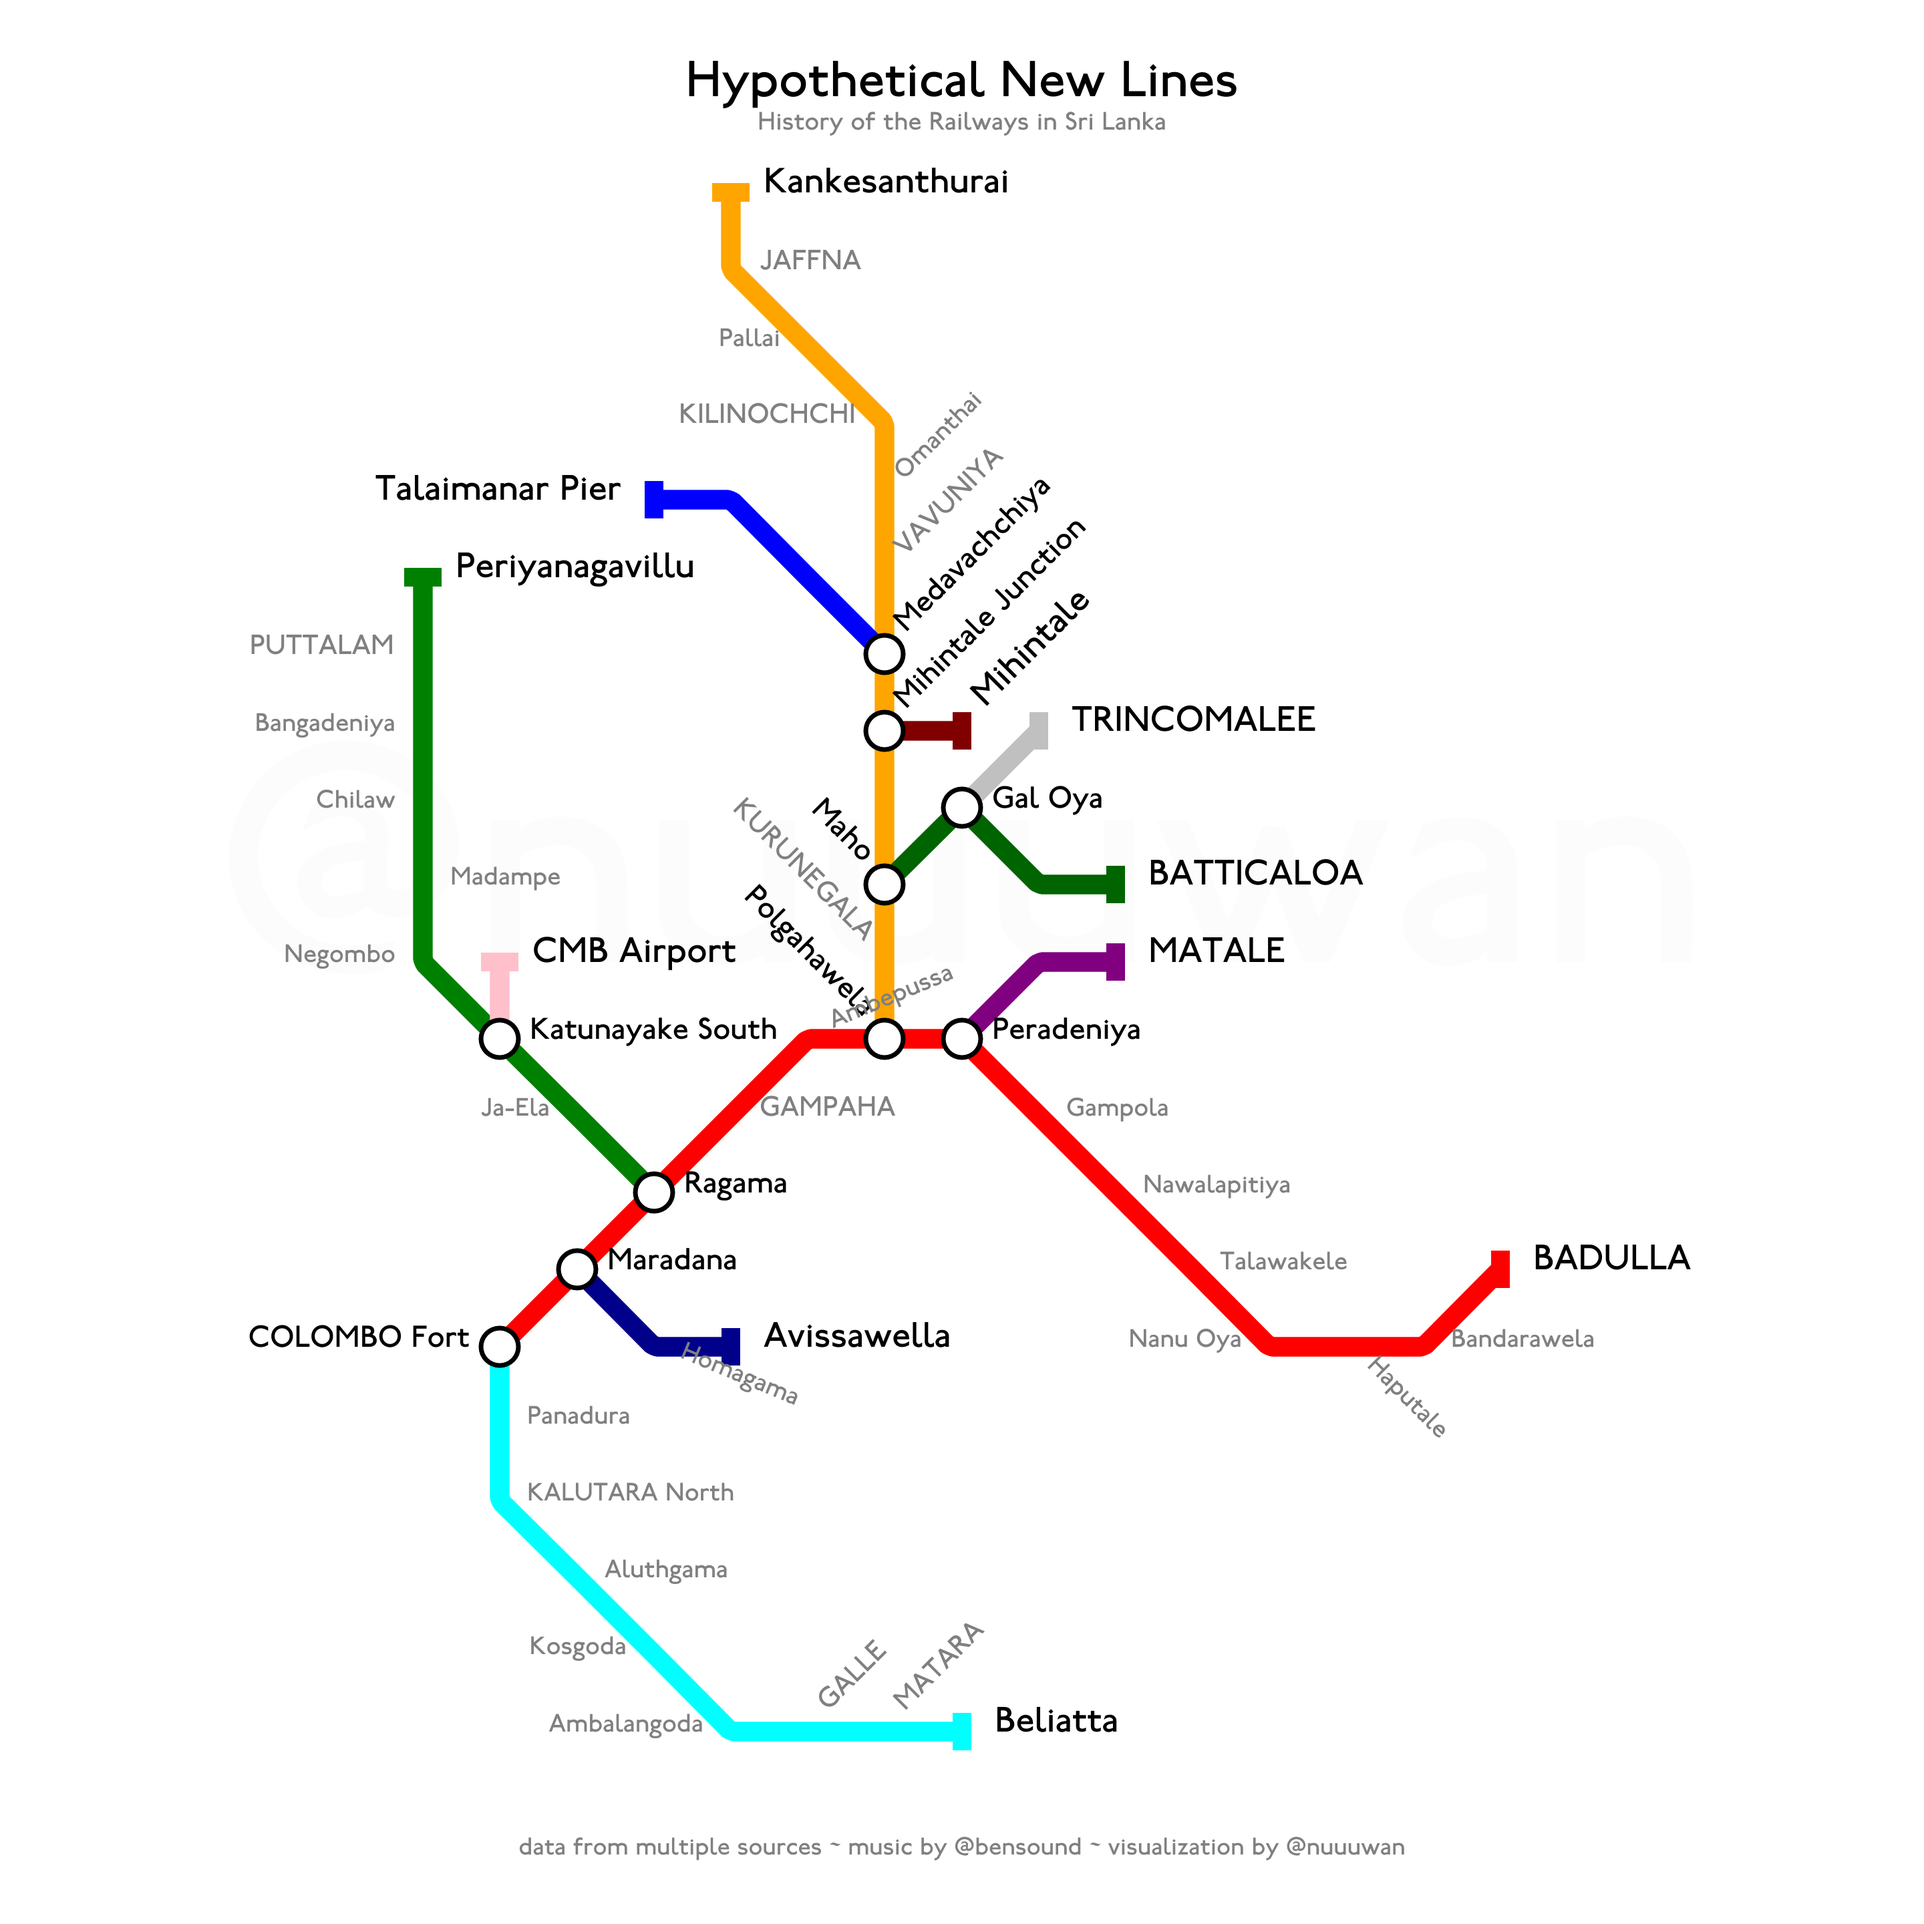
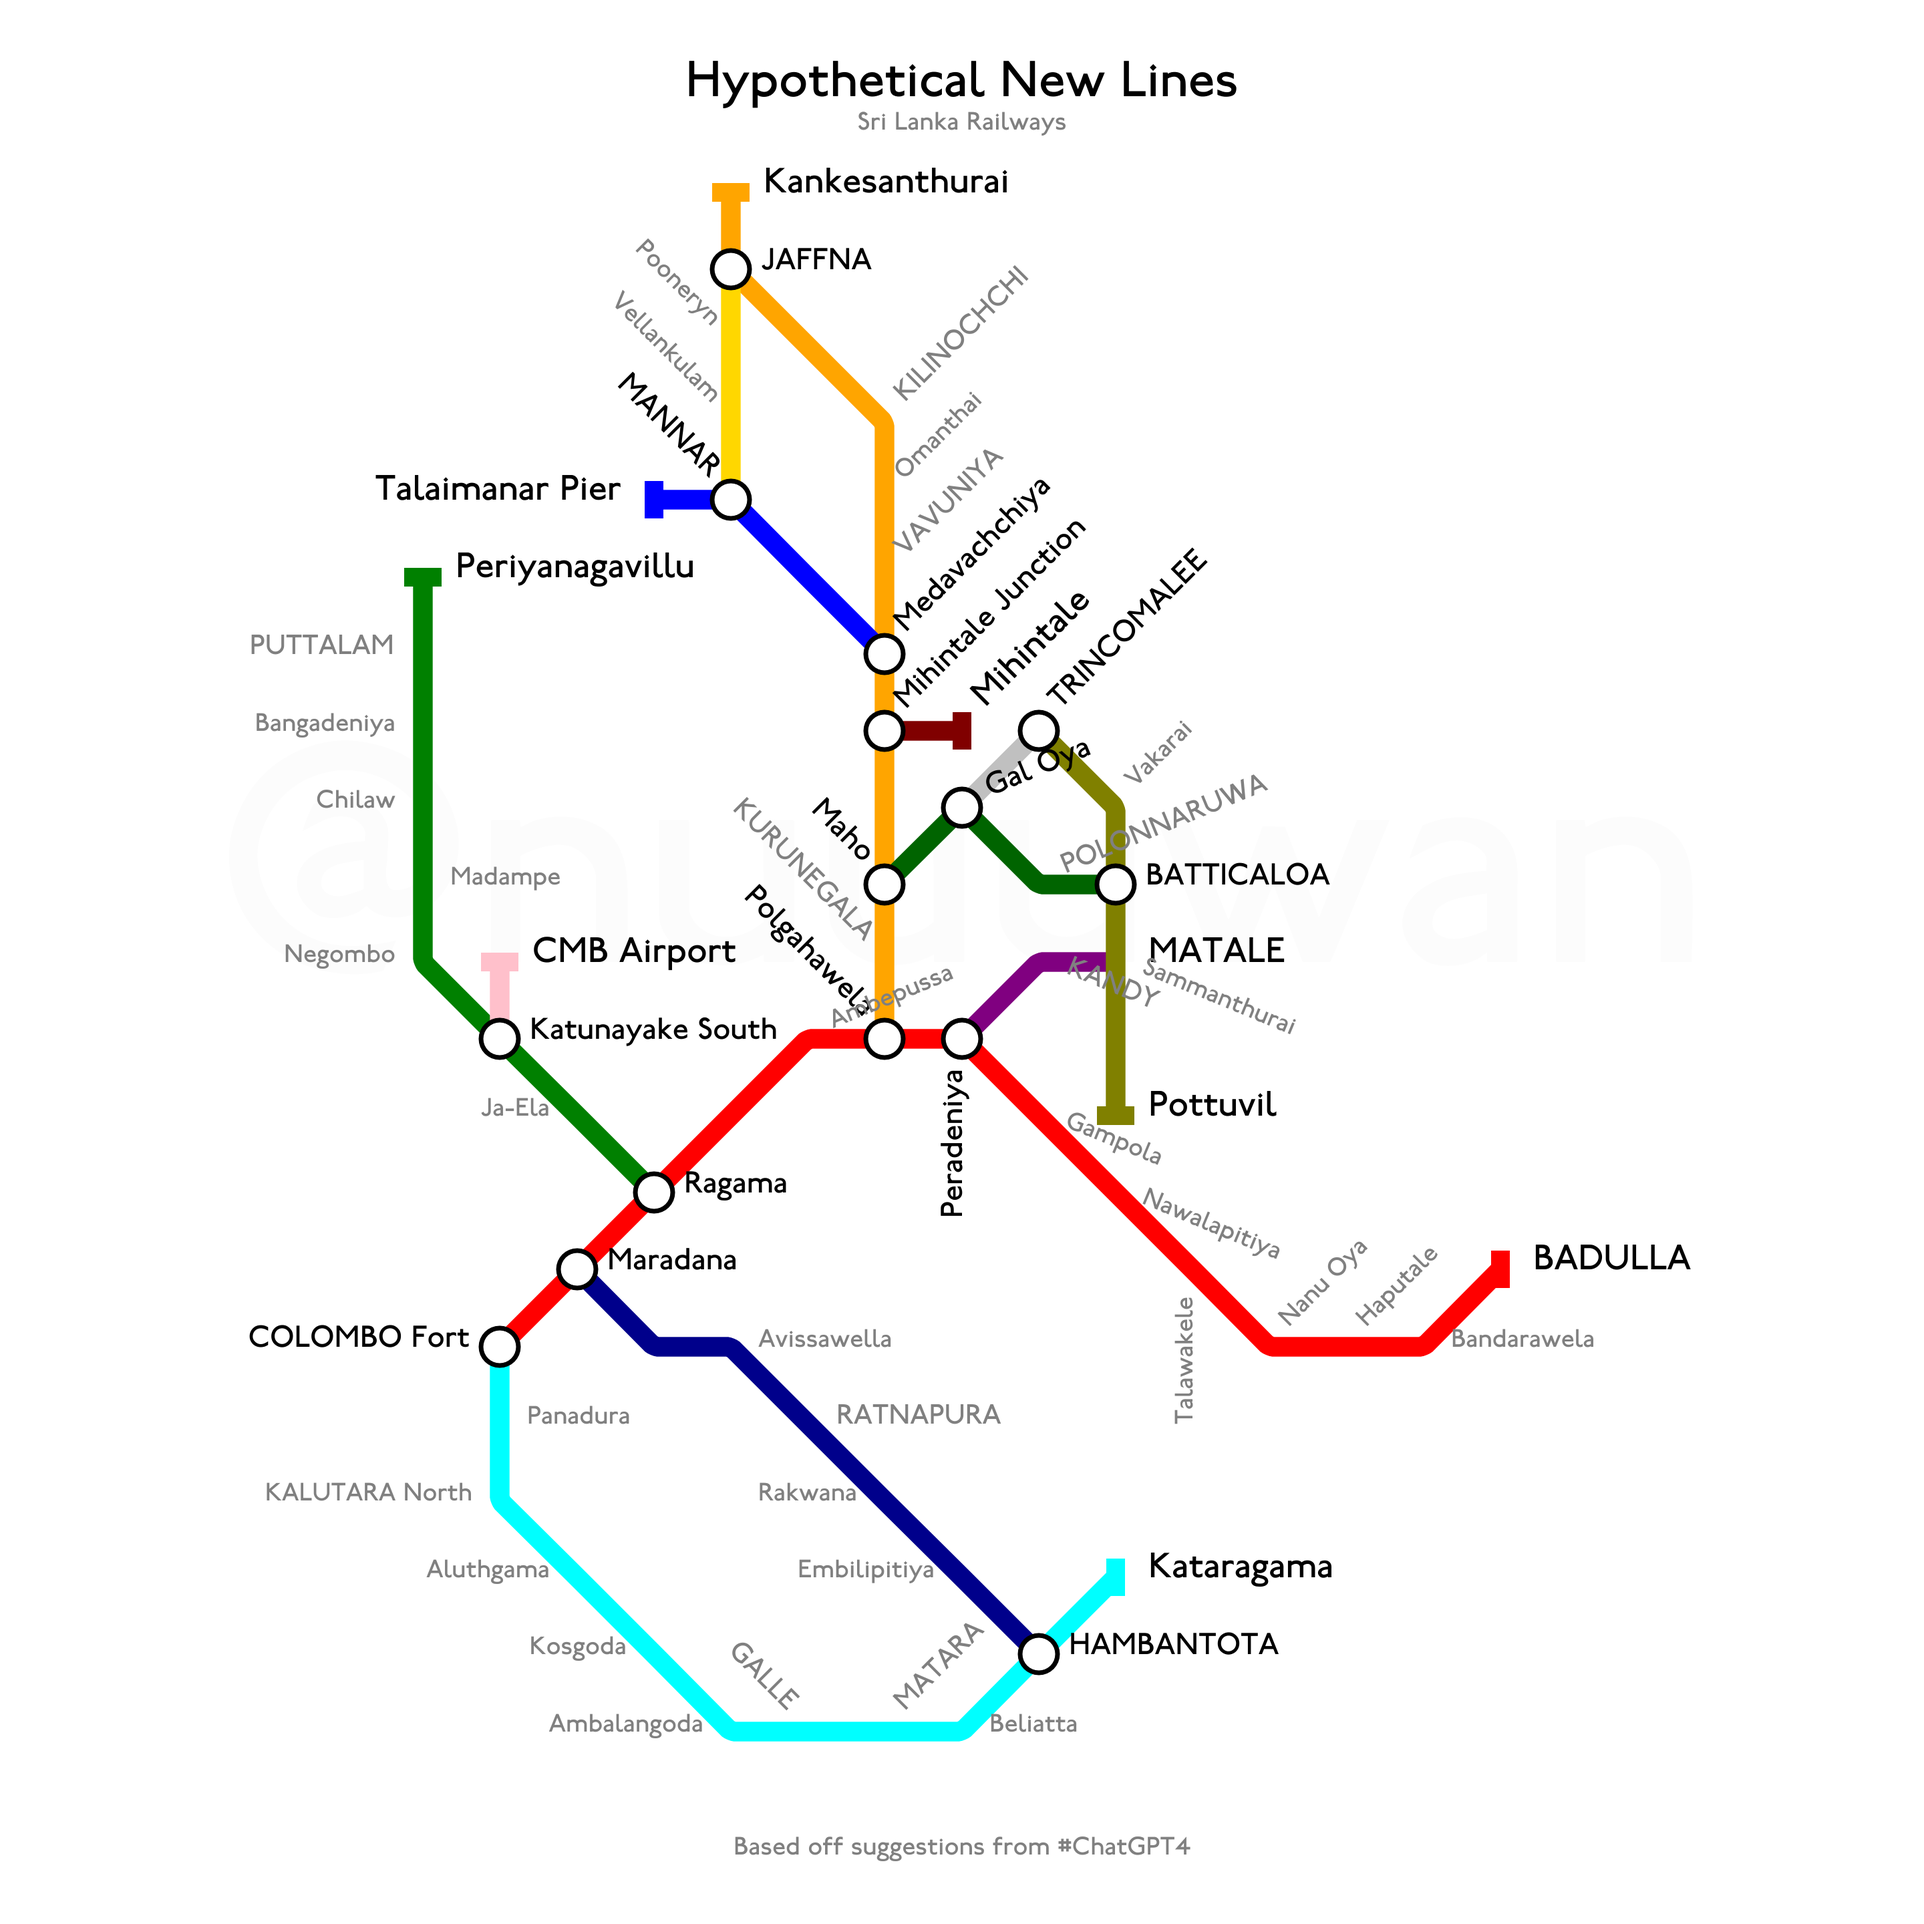
hypothetical lines

diff --git a/examples/lk_rail_hyp.py b/examples/lk_rail_hyp.py
@@ -2,8 +2,16 @@ from examples.lk_rail_history import build_config_idx
 from hbd import Draw, Line, Network, Styler
 
 config = list(build_config_idx().values())[-1]
-config.title = 'Hypothetical New Lines'
 
+config.title = 'Hypothetical New Lines'
+config.subtitle = 'Sri Lanka Railways'
+config.footer_text = 'Based off suggestions from #ChatGPT4'
+
+
+config.extend_line('Coastal', ['Hambantota', 'Kataragama'], '2NE')
+config.extend_line('Kelani Valley', ['Ratnapura', 'Rakwana', 'Embilipitiya', 'Hambantota'], '4SE')
+config.add_line('Wilpattu', 'gold', ['Mannar', 'Vellankulam', 'Pooneryn','Jaffna'], '3N')
+config.add_line('East Coast', 'olive', ['Trincomalee', 'Vakarai', 'Batticaloa', 'Sammanthurai', 'Akkaraipattu', 'Pottuvil'], '2SE 3S')
 styler = Styler(DIM=2880)
 
 Draw(config, styler).draw('images/lk_rail_hyp.png')
